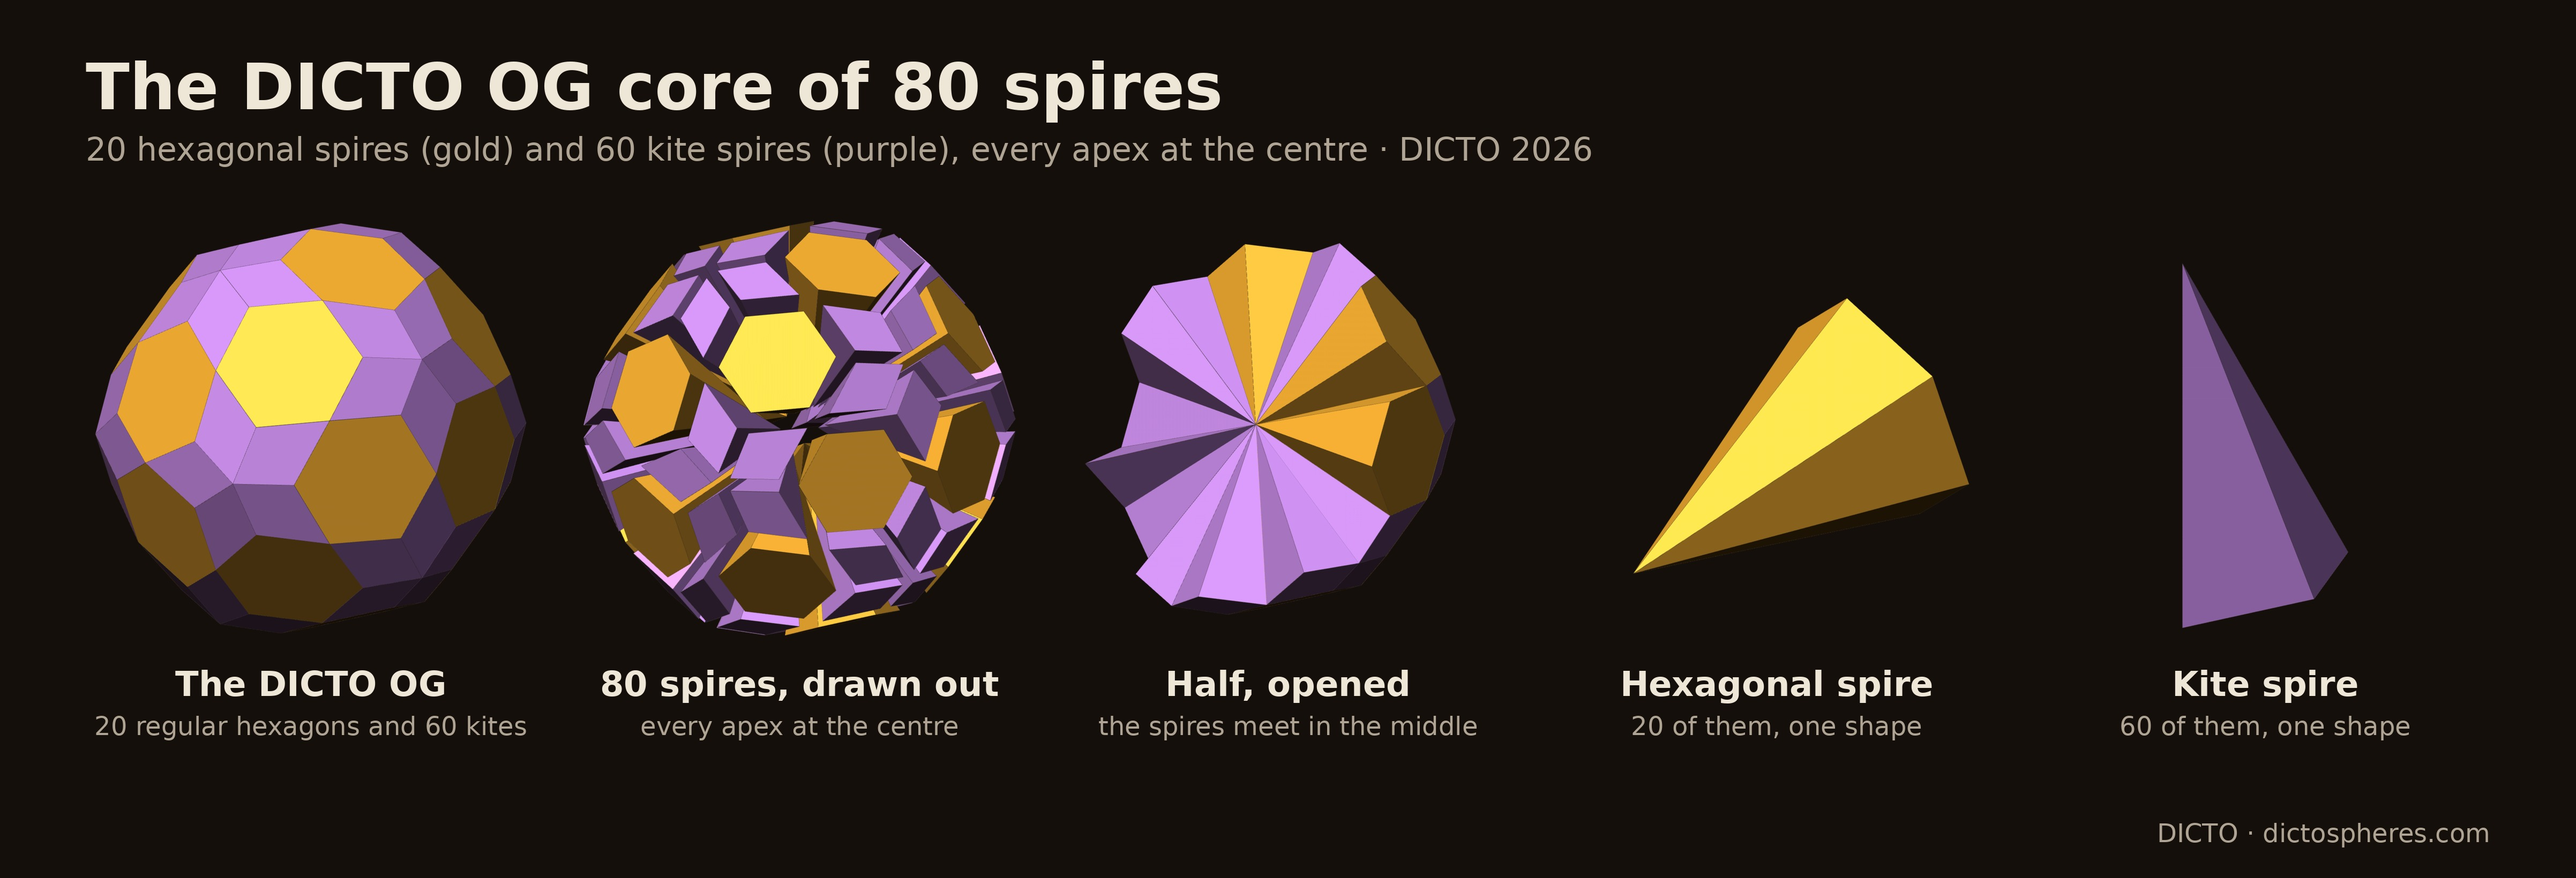
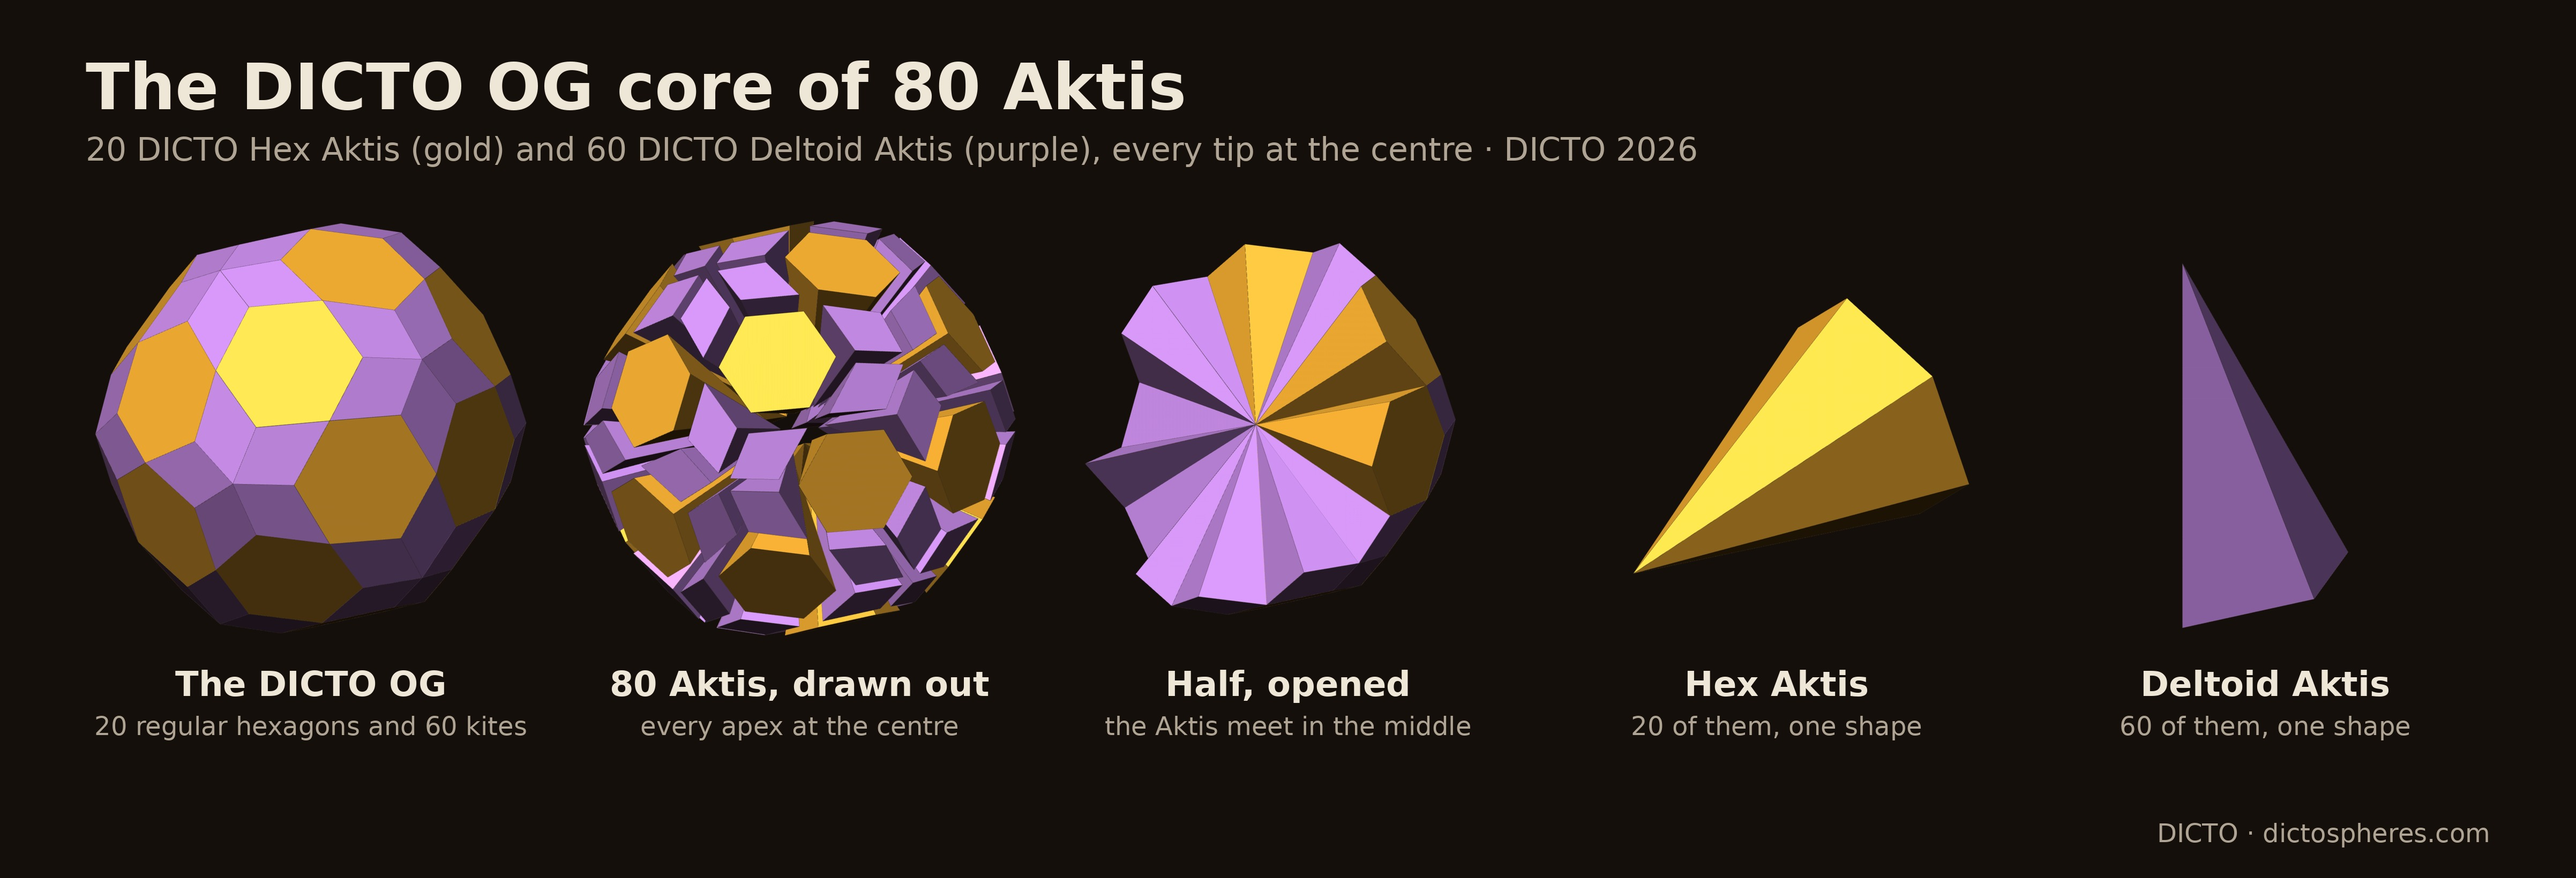
Kyushindo checks (Fable referee): w.v <= w.w on every station (TQP fails, 60 of 140), 60-rotation symmetry of inner and outer solid of every shell (13 PASS); OG hexagon touches OTT triangle at its edge midpoints (4 PASS); figures: Aktis names, OG turned out subtitle, surface-pattern subtitle

diff --git a/studies/2026-10-21-og-turned-out/kyushindo_checks.py b/studies/2026-10-21-og-turned-out/kyushindo_checks.py
@@ -1,0 +1,35 @@
+# DICTO 2026-10-21: two checks for the Kyushindo Cores paper (#43), after the Fable referee, EXACT in Q(sqrt5) with the #38/#39 machinery.
+#  (1) "every corner of S stays on the surface of T(S)" holds exactly when w.v <= w.w for all corners v, w of S (else v is cut off by the
+#      face of w). Tested for every solid the paper steps or bounds with: the UP stations ID, RT, GTI, FPD (the Cleo and Polar Cleo Towers'
+#      boundaries are these scaled by powers of c = 10/phi^4, and the condition does not change under scaling), and the OG chain OG, TPH, TQH,
+#      TQP, TQHD (for the record: the OG turned out is built by the reverse step, not by T).
+#  (2) every inner and outer solid of every shell cut into towers in the paper (Cleo Towers, Polar Cleo Towers, OG turned out, at their actual
+#      scales) is fixed, as a corner set, by all 60 exact rotations (exact_shells.shell itself asserts this for 5 of them, on the inner solid).
+#  usage: python3 kyushindo_checks.py <studies/2026-10-19-five-fold-octet>
+import sys, os
+sys.path.insert(0, sys.argv[1]); os.chdir(sys.argv[1])
+src = open('exact_downward.py').read(); exec(src.split("log = {")[0].replace("os.path.dirname(os.path.abspath(__file__))", repr(os.getcwd())))
+ok = lambda cond, m: print(('PASS ' if cond else 'FAIL ') + m, flush=True) or cond
+UP = [ID]
+for _ in range(3): UP.append(step(UP[-1])[0])
+DN = [OG]
+for _ in range(4): DN.append(rev(DN[-1]))
+c = Q5(35, -15)
+ok(set(step(UP[3])[0]) == {tuple(c * x for x in v) for v in ID}, 'T(FPD) = c ID, c = 35 - 15 sqrt5 = 10/phi^4')
+def cut(S):
+    return sum(1 for v in S if any((dot(w, v) - dot(w, w)).sign() > 0 for w in S))
+for nm, S in zip(['ID', 'RT', 'GTI', 'FPD', 'OG', 'TPH', 'TQH', 'TQP', 'TQHD'], UP + DN):
+    n = cut(S); ok(True, f'(1) {nm}: corners cut off by T: {n} of {len(S)}' + (' (w.v <= w.w for all corners: every corner stays on the surface of T(S))' if n == 0 else ''))
+def beat(j):
+    q, r = divmod(j, 4); f = Q5(1)
+    for _ in range(abs(q)): f = f * c if q > 0 else f / c
+    return [tuple(f * x for x in v) for v in UP[r]]
+def pw(k):
+    r = Q5(1)
+    for _ in range(k): r = r * PHI
+    return r
+sym = lambda S: all({app(M, v) for v in S} == set(S) for M in G)
+runs = [('Cleo Towers', [0, 1, 2, 4, 7, 12]), ('Polar Cleo Towers', [-7, -2, 1, 3, 4, 5])]
+for nm, b in runs:
+    ok(all(sym(beat(j)) for j in b), f'(2) {nm}: the boundary solids at beats {b} (inner and outer of every shell) are each fixed by all 60 rotations')
+ok(len(G) == 60 and all(sym([tuple(pw(k) * x for x in v) for v in DN[k]]) for k in (0, 1, 2, 4)), '(2) OG turned out: OG, phi TPH, phi^2 TQH, phi^4 TQHD (inner and outer of every shell) are each fixed by all 60 rotations')

diff --git a/studies/2026-10-21-og-turned-out/axis_words.py b/studies/2026-10-21-og-turned-out/axis_words.py
@@ -1,0 +1,29 @@
+# DICTO 2026-10-21, Fable referee's study question for #43: what does each symmetry axis pierce on each solid of the OG's downward
+# family (= the turned-out sequence, scaled), and does the word repeat? EXACT: the axis leaves a convex solid with this symmetry
+# through a corner (a corner on the axis), a face (a face plane square to the axis: its exit point is fixed by the axis turn, so the
+# face is turned onto itself) or the inside of an edge (only possible on a 2-fold axis). Tests: cross(v, a) = 0 for corners,
+# cross(n, a) = 0 for face normals, in Q(sqrt5). Prediction (referee): 2-fold word OG..TQHD = corner, edge, edge, face, corner, so
+# period 4 -> ribbons (edge stations) again at down 5, 6.   usage: python3 axis_words.py <studies/2026-10-19-five-fold-octet>
+import sys, os, json, pickle
+sys.path.insert(0, sys.argv[1]); os.chdir(sys.argv[1])
+HERE = os.path.dirname(os.path.abspath(__file__))
+src = open('exact_downward.py').read(); exec(src.split("log = {")[0].replace("os.path.dirname(os.path.abspath(__file__))", repr(os.getcwd())))
+from exact_shells import cross
+D = pickle.load(open(os.path.join(HERE, 'golden-long-solids.pkl'), 'rb'))
+z = Q5(0); one = Q5(1)
+AX = {'5-fold': (z, one, PHI), '3-fold': (one, one, one), '2-fold': (z, z, one)}
+zero = lambda u: all(x == z for x in u)
+names = ['OG', 'TPH', 'TQH', 'TQP', 'TQHD'] + [f'down {k}' for k in range(5, 13)]
+out = {}
+for k, S in enumerate(D):
+    H = solid(S); row = {}
+    for nm, a in AX.items():
+        c = any(zero(cross(v, a)) and dot(v, a).sign() > 0 for v in S)
+        f = any(zero(cross(n, a)) and dot(n, a).sign() > 0 for n, d in H)
+        row[nm] = 'corner' if c else 'face' if f else 'edge'
+    out[names[k]] = row; print(f'{names[k]:8s} {len(S):4d} corners  ' + '  '.join(f'{a}: {row[a]:6s}' for a in AX), flush=True)
+w2 = [out[n]['2-fold'] for n in out]
+print('2-fold word:', ' '.join(w2)); print('period 4 holds over all built:', all(w2[i] == w2[i + 4] for i in range(len(w2) - 4)))
+for a in ('3-fold', '5-fold'):
+    w = [out[n][a] for n in out]; print(f'{a} word:', ' '.join(w), '| period 2:', all(w[i] == w[i + 2] for i in range(len(w) - 2)))
+json.dump(out, open(os.path.join(HERE, 'axis-words.json'), 'w'), indent=1)

diff --git a/studies/2026-10-20-ott-rays/ott_og_planes.py b/studies/2026-10-20-ott-rays/ott_og_planes.py
@@ -14,3 +14,17 @@ ott_tri = [(n, d) for n, d in planes_of(OTT) if len(on(OTT, n, d)) == 3 and len(
 same = lambda a, b: all(x == Z for x in cross(a[0], b[0])) and sgn(dot(a[0], b[0])) > 0 and qm(a[1], dot(b[0], b[0])) == qm(b[1], dot(a[0], b[0]))
 ok(len(og_hex) == 20 and len(ott_tri) == 8, f'the OG has {len(og_hex)} hexagon planes; the OTT has {len(ott_tri)} octahedral (pole) triangles')
 ok(all(sum(same(t, h) for h in og_hex) == 1 for t in ott_tri), 'each of the 8 octahedral triangles of the OTT lies in one hexagon plane of the OG, exactly')
+# DICTO 2026-10-21 (referee): in each such plane, the OG hexagon's circumradius equals the OTT triangle's inradius, and three corners of the
+# hexagon are exactly the midpoints of the triangle's edges, so the hexagon touches the triangle there (and lies inside it, the OG being inside the OTT).
+OGs = [tuple(qs_(x) for x in v) for v in OG]; key = lambda v: tuple(qs_(x) for x in v)
+allok, r_eq = True, True
+for t in ott_tri:
+    h = next(h for h in og_hex if same(t, h)); T3 = on(OTT, *t); H6 = on(OG, *h)
+    ctr = [qd(vsum3, qr(3)) for vsum3 in [qa(qa(T3[0][k], T3[1][k]), T3[2][k]) for k in range(3)]]
+    side2 = dot(vsub(T3[0], T3[1]), vsub(T3[0], T3[1])); in2 = qd(side2, qr(12))                       # inradius^2 of an equilateral triangle
+    circ = {qs_(dot(vsub(p, ctr), vsub(p, ctr))) for p in H6}                                              # hexagon corners' distance^2 to the centre
+    r_eq &= circ == {qs_(in2)}
+    mids = [[qd(qa(a[k], b[k]), qr(2)) for k in range(3)] for a, b in ((T3[0], T3[1]), (T3[1], T3[2]), (T3[2], T3[0]))]
+    allok &= all(key(m) in {key(p) for p in H6} for m in mids)
+ok(r_eq, f'in each of the 8 planes the OG hexagon\'s circumradius^2 equals the OTT triangle\'s inradius^2, {qs_(in2)} (exact)')
+ok(allok, 'three corners of each such hexagon are exactly the midpoints of the triangle\'s three edges: the hexagon touches the triangle there')

diff --git a/studies/2026-10-20-og-spires/og_spires_compose.py b/studies/2026-10-20-og-spires/og_spires_compose.py
@@ -20,5 +20,8 @@ def sheet(idx, cols, path, title=None, sub=None, cell=520, gap=36, names=None, s
             d.text((x + cell / 2 - d.textlength(txt, font=fo) / 2, yy), txt, font=fo, fill=col)
     m = 'DICTO · dictospheres.com'; d.text((W - 80 * K - d.textlength(m, font=f(24 * K)), Hh - 56 * K), m, font=f(24 * K), fill=MUTE)
     im.save(os.path.join(OUT, path), quality=92); print(path, im.size)
-sheet([0, 1, 2, 3, 4], 5, 'og-spires.jpg', 'The DICTO OG core of 80 spires', '20 hexagonal spires (gold) and 60 kite spires (purple), every apex at the centre · DICTO 2026', cell=420)
+# names DICTO's (2026-10-20): Hex Aktis (on the hexagons), Deltoid Aktis (on the kites)
+L[1]['title'] = '80 Aktis, drawn out'; L[2]['sub'] = 'the Aktis meet in the middle'
+for i, (t, s) in zip((3, 4), [('Hex Aktis', '20 of them, one shape'), ('Deltoid Aktis', '60 of them, one shape')]): L[i]['title'], L[i]['sub'] = t, s
+sheet([0, 1, 2, 3, 4], 5, 'og-spires.jpg', 'The DICTO OG core of 80 Aktis', '20 DICTO Hex Aktis (gold) and 60 DICTO Deltoid Aktis (purple), every tip at the centre · DICTO 2026', cell=420)
 

diff --git a/studies/2026-10-21-og-turned-out/surface_compose.py b/studies/2026-10-21-og-turned-out/surface_compose.py
@@ -30,7 +30,7 @@ def sheet(cells, cols, path, title, sub, cell=440, gap=30, K=2):
     im.save(os.path.join(OUT, path), quality=92); print(path, im.size)
 shot = lambda i: Image.open(os.path.join(S, f'p{i}.png')).convert('RGBA')
 sheet([(shot(i), nm, SUB[nm]) for i, nm in enumerate(NAMES)], 5, 'surface-patterns.jpg', 'The surfaces of the shells',
-      'Every boundary solid, faces coloured by kind: UP stations (top), the OG and its downward solids (bottom) · DICTO 2026')
+      'Every boundary solid, faces coloured by kind: the UP stations ID, RT, GTI, FPD, then the OG and its downward solids · DICTO 2026')
 sheet([(shot(6), 'The TQH', '30 ribbons (coral): trapezoid pairs on the two-fold axes'), (shot(9), 'One ribbon', 'its two shell-3 towers, drawn a little apart')], 2,
       'ribbons.jpg', 'The ribbons', 'The TQH, boundary of the OG turned out at beat 2 · DICTO 2026', cell=520)
 # the line drawings, same camera as the renders

diff --git a/studies/2026-10-21-og-turned-out/golden_compose.py b/studies/2026-10-21-og-turned-out/golden_compose.py
@@ -21,4 +21,4 @@ def sheet(idx, cols, path, title=None, sub=None, cell=520, gap=36, names=None, s
     m = 'DICTO · dictospheres.com'; d.text((W - 80 * K - d.textlength(m, font=f(24 * K)), Hh - 56 * K), m, font=f(24 * K), fill=MUTE)
     im.save(os.path.join(OUT, path), quality=92); print(path, im.size)
 os.makedirs(OUT, exist_ok=True)
-sheet([0, 1, 2, 3, 4, 5], 3, 'og-turned-out.jpg', 'The OG turned out, golden step', 'The 80 Aktis flipped out at 1/phi height; shells of 1, 1, 2 beats, each beat about phi larger', cell=460)
+sheet([0, 1, 2, 3, 4, 5], 3, 'og-turned-out.jpg', 'The OG turned out, golden step', 'Aktis flipped out at 1/phi height: beat k = phi^k x downward solid k; shells of 1, 1, 2 beats', cell=460)
